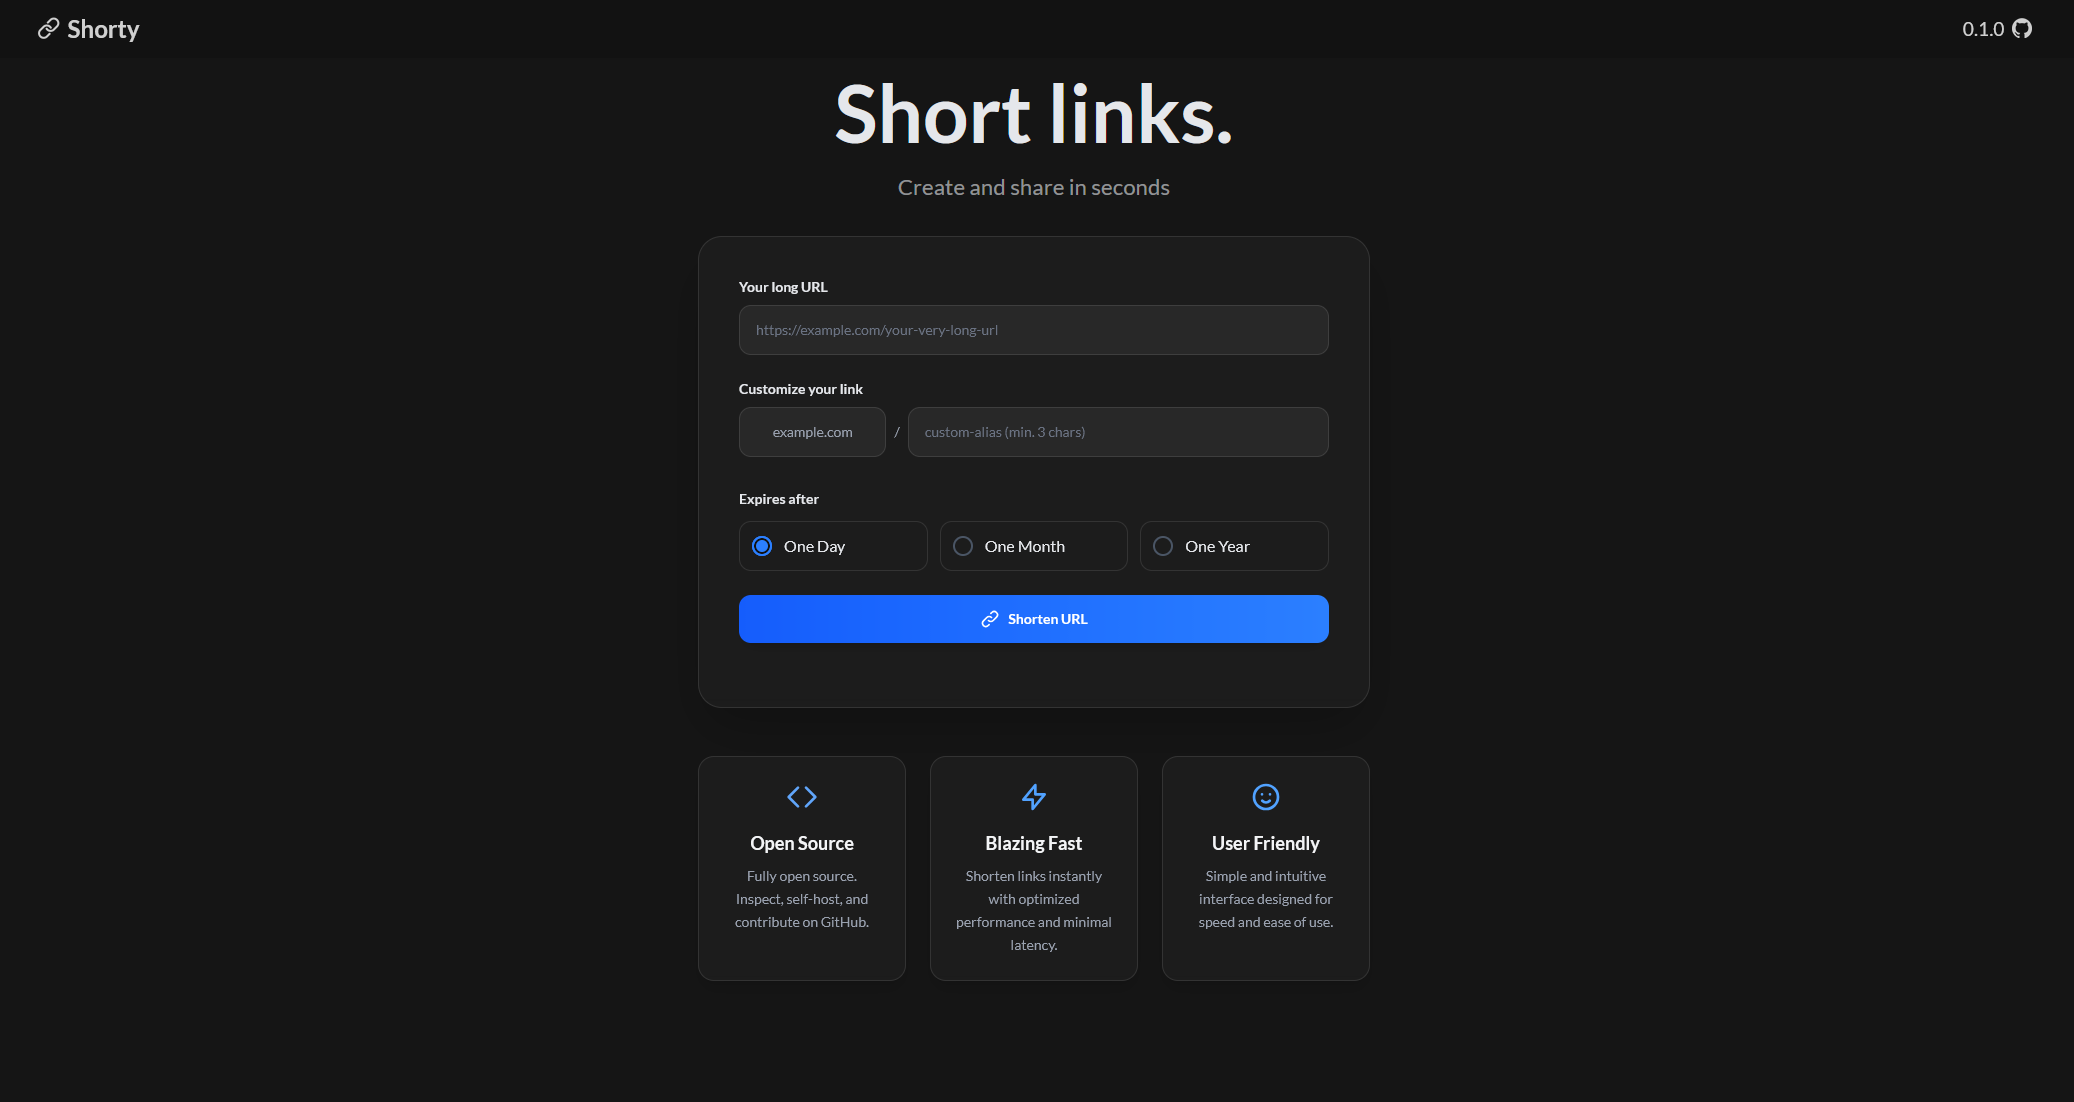
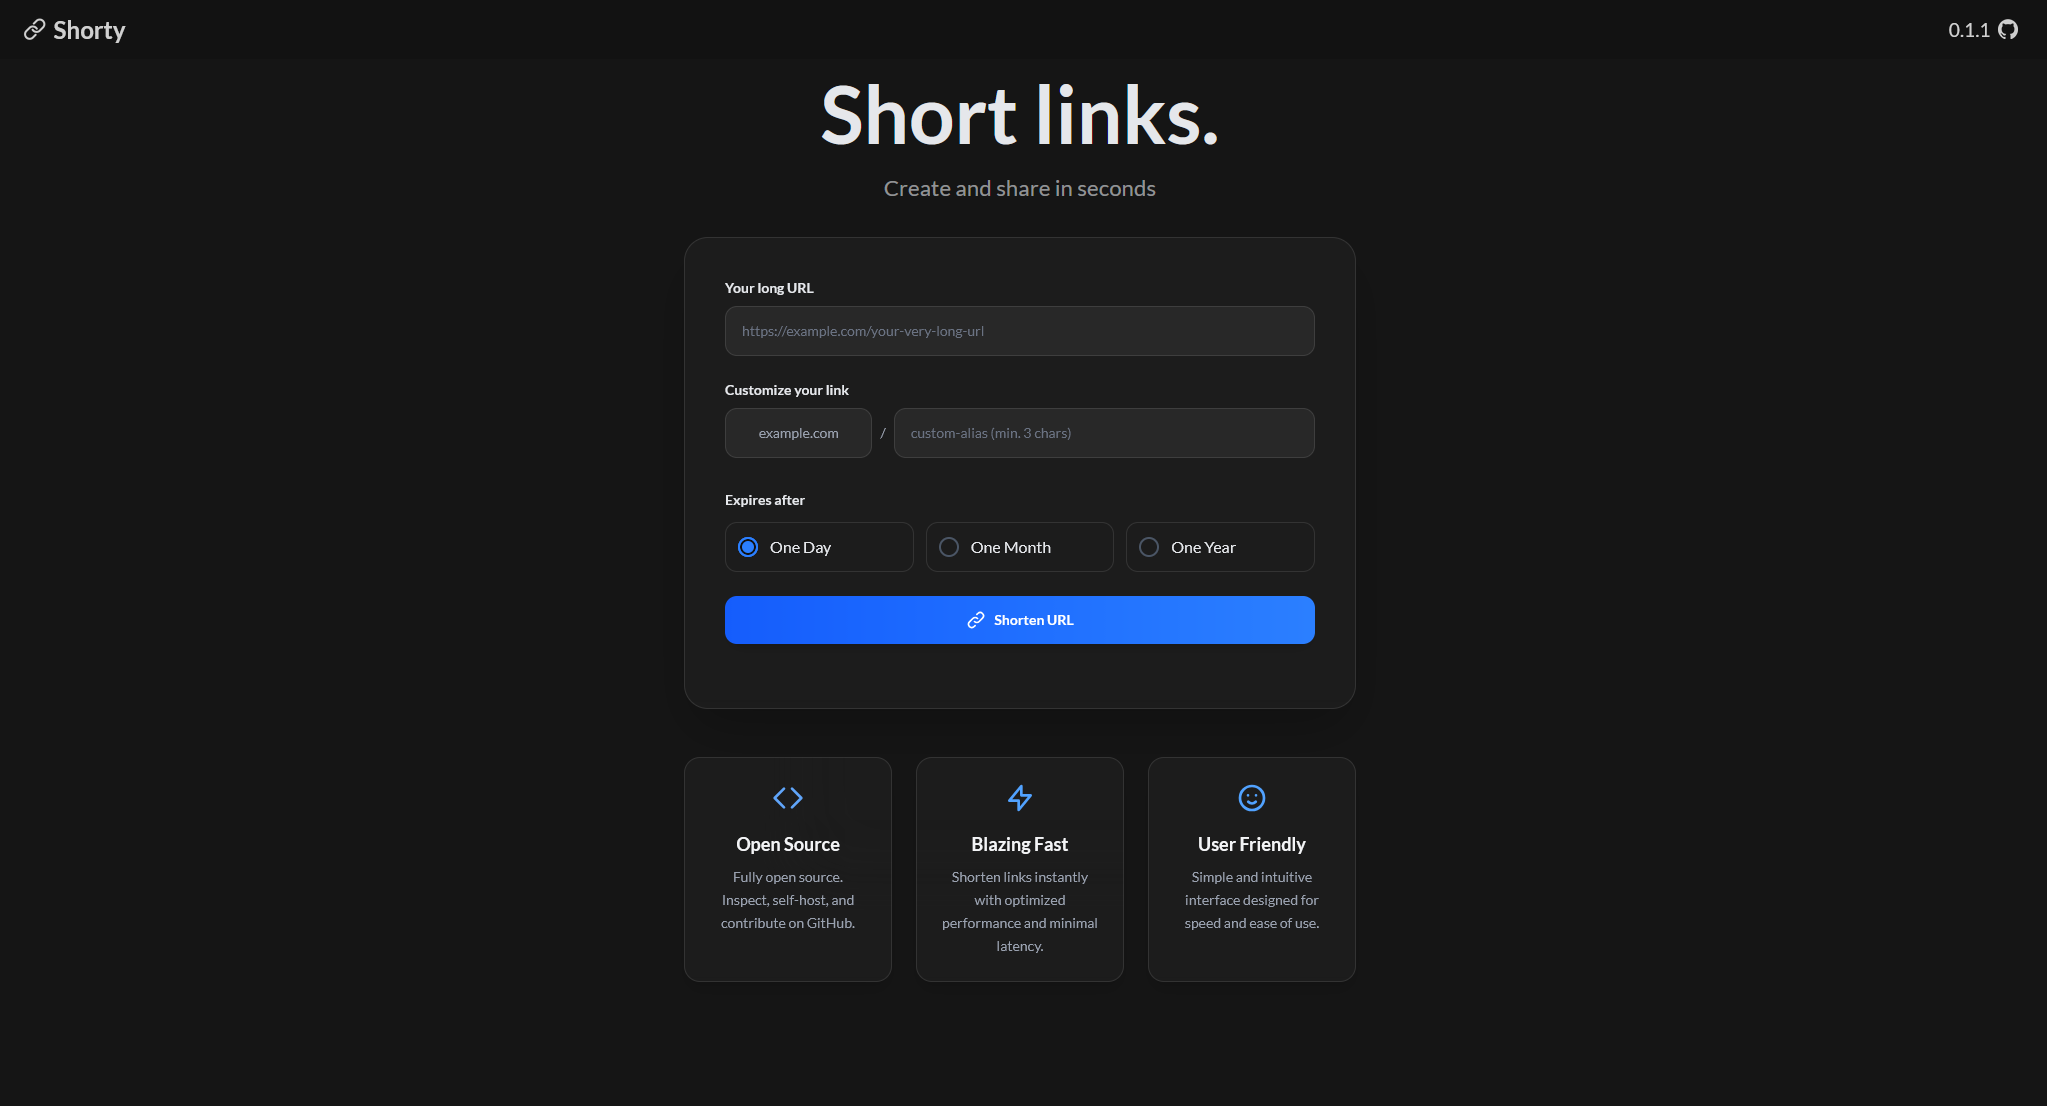
Updated README and configuration file

diff --git a/README.md b/README.md
@@ -2,13 +2,13 @@
 
 A comprehensive self-hosted web application designed for simple and fast URL shortening
 
-![Shorty](https://img.shields.io/badge/Shorty-0.1.0-3776AB?style=flat&logoColor=white)
+![Shorty](https://img.shields.io/badge/Shorty-0.1.1-3776AB?style=flat&logoColor=white)
 ![Python](https://img.shields.io/badge/Python-3.14-3776AB?style=flat&logo=python&logoColor=white)
 ![Docker Ready](https://img.shields.io/badge/Docker-Ready-3776AB?style=flat&logo=docker&logoColor=white)
 ![GitHub License](https://img.shields.io/github/license/alxww55/shorty)
 [![Codacy Badge](https://app.codacy.com/project/badge/Grade/3bceba252c77495dac7ffbe94309e2ba)](https://app.codacy.com/gh/alxww55/shorty/dashboard?utm_source=gh&utm_medium=referral&utm_content=&utm_campaign=Badge_grade)
 
-![alt text](./screeshots/shorty.png)
+![alt text](./screenshots/shorty.png)
 
 ## Key Features
 - **Dynamic Prefix** - automatically prepends your hostname to shortened URLs

diff --git a/CHANGELOG.md b/CHANGELOG.md
@@ -1,0 +1,17 @@
+# Changelog
+
+## [0.1.1] - 2025-12-25
+### Added
+- Log retention to keep only recent logs.
+
+### Changed
+#### Frontend
+- Expanded host container width.
+- Refactored input form layout.
+
+### Fixed
+- Info field now correctly shows default Pydantic errors instead of being empty.
+
+## [0.1.0] - 2025-12-19
+### Added
+- Initial MVP with URL shortening, redirect, background tasks and database integration.
